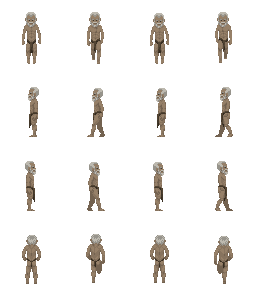
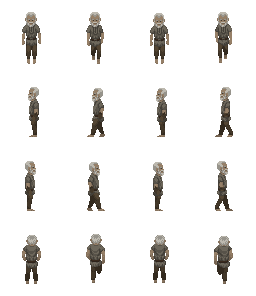
fix(aset): buat pakaian karakter lebih tertutup
- tokoh utama, Lelaki Tua, Tumbal Gagal: cawat diganti celana panjang + baju
- Empu Karta & Penjaga Lumbung: tubuh biasa berlengan kekar dengan celana, baju, dan kain di atasnya

diff --git a/tools/build_assets.py b/tools/build_assets.py
@@ -59,9 +59,10 @@ def build_characters():
                          ('human_arms!na.png', skin), ('human_head!nh.png', skin),
                          ('human_ears!ne.png', skin)]
     # Tokoh utama: tumbal kurus, cawat dan baju karung kusam, rambut kusut.
+    # (celana panjang + baju; sengaja tidak terbuka)
     character('tumbal.png', body(KULIT_SAWO) + [
-        ('loincloth+nl+nt.png', KAIN_COKLAT),
-        ('medieval_wide_shirt+nt+na+sb.png', KAIN_KUSAM),
+        ('plain_pants+nl-tt.png', KAIN_COKLAT),
+        ('medievalshirt+nt+nl+na+0b.png', KAIN_KUSAM),
         ('rogue_hair.png', RAMBUT_HITAM),
     ])
     # Warga desa (sementara, untuk uji NPC)
@@ -74,8 +75,13 @@ def build_characters():
     thick0 = lambda skin: [('human_legs_thick!tl.png', skin), ('human_torso_thick!tt.png', skin),
                            ('human_arms_beefy!ba.png', skin), ('human_head!nh.png', skin),
                            ('human_ears!ne.png', skin)]
-    character('empu_karta.png', thick0((150, 104, 72)) + [
-        ('great_kilt+tt+ba-sl.png', (52, 44, 40)),
+    kekar = lambda skin: [('human_legs!nl.png', skin), ('human_torso!nt.png', skin),
+                          ('human_arms_beefy!ba.png', skin), ('human_head!nh.png', skin),
+                          ('human_ears!ne.png', skin)]
+    character('empu_karta.png', kekar((150, 104, 72)) + [
+        ('plain_pants+nl-tt.png', (46, 40, 36)),
+        ('medievalshirt+nt+nl+ba+0b.png', (70, 58, 50)),
+        ('great_kilt+nt+ba-sl.png', (52, 44, 40)),
         ('full_beard.png', (120, 116, 108)),
     ])
     # Pedagang keliling: celana longgar, baju lurik, ikat kepala merah tua
@@ -86,7 +92,8 @@ def build_characters():
     ])
     # Lelaki Tua: tumbal lama yang dibiarkan membusuk di sel
     character('lelaki_tua.png', body((150, 128, 104)) + [
-        ('loincloth+nl+nt.png', (84, 70, 52)),
+        ('plain_pants+nl-tt.png', (84, 70, 52)),
+        ('medievalshirt+nt+nl+na+0b.png', (110, 104, 92)),
         ('full_beard.png', (190, 186, 176)),
         ('short_receding.png', (190, 186, 176)),
     ])
@@ -99,14 +106,17 @@ def build_characters():
     # Musuh di peta (sprite simbol)
     KULIT_MAYAT = (128, 138, 112)
     character('tumbal_gagal.png', body(KULIT_MAYAT) + [
-        ('loincloth+nl+nt.png', (70, 60, 46)),
+        ('plain_pants+nl-tt.png', (70, 60, 46)),
+        ('medievalshirt+nt+nl+na+0b.png', (92, 86, 70)),
         ('short_receding.png', (40, 40, 36)),
     ])
     thick = lambda skin: [('human_legs_thick!tl.png', skin), ('human_torso_thick!tt.png', skin),
                           ('human_arms_beefy!ba.png', skin), ('human_head!nh.png', skin),
                           ('human_ears!ne.png', skin)]
-    character('penjaga_lumbung.png', thick((150, 150, 132)) + [
-        ('great_kilt+tt+ba-sl.png', (60, 40, 36)),
+    character('penjaga_lumbung.png', kekar((150, 150, 132)) + [
+        ('plain_pants+nl-tt.png', (48, 36, 32)),
+        ('medievalshirt+nt+nl+ba+0b.png', (64, 54, 46)),
+        ('great_kilt+nt+ba-sl.png', (60, 40, 36)),
         ('shoulder_pads+ba.png', (90, 70, 50)),
         ('nordic_helmet.png', (120, 96, 72)),
     ])
